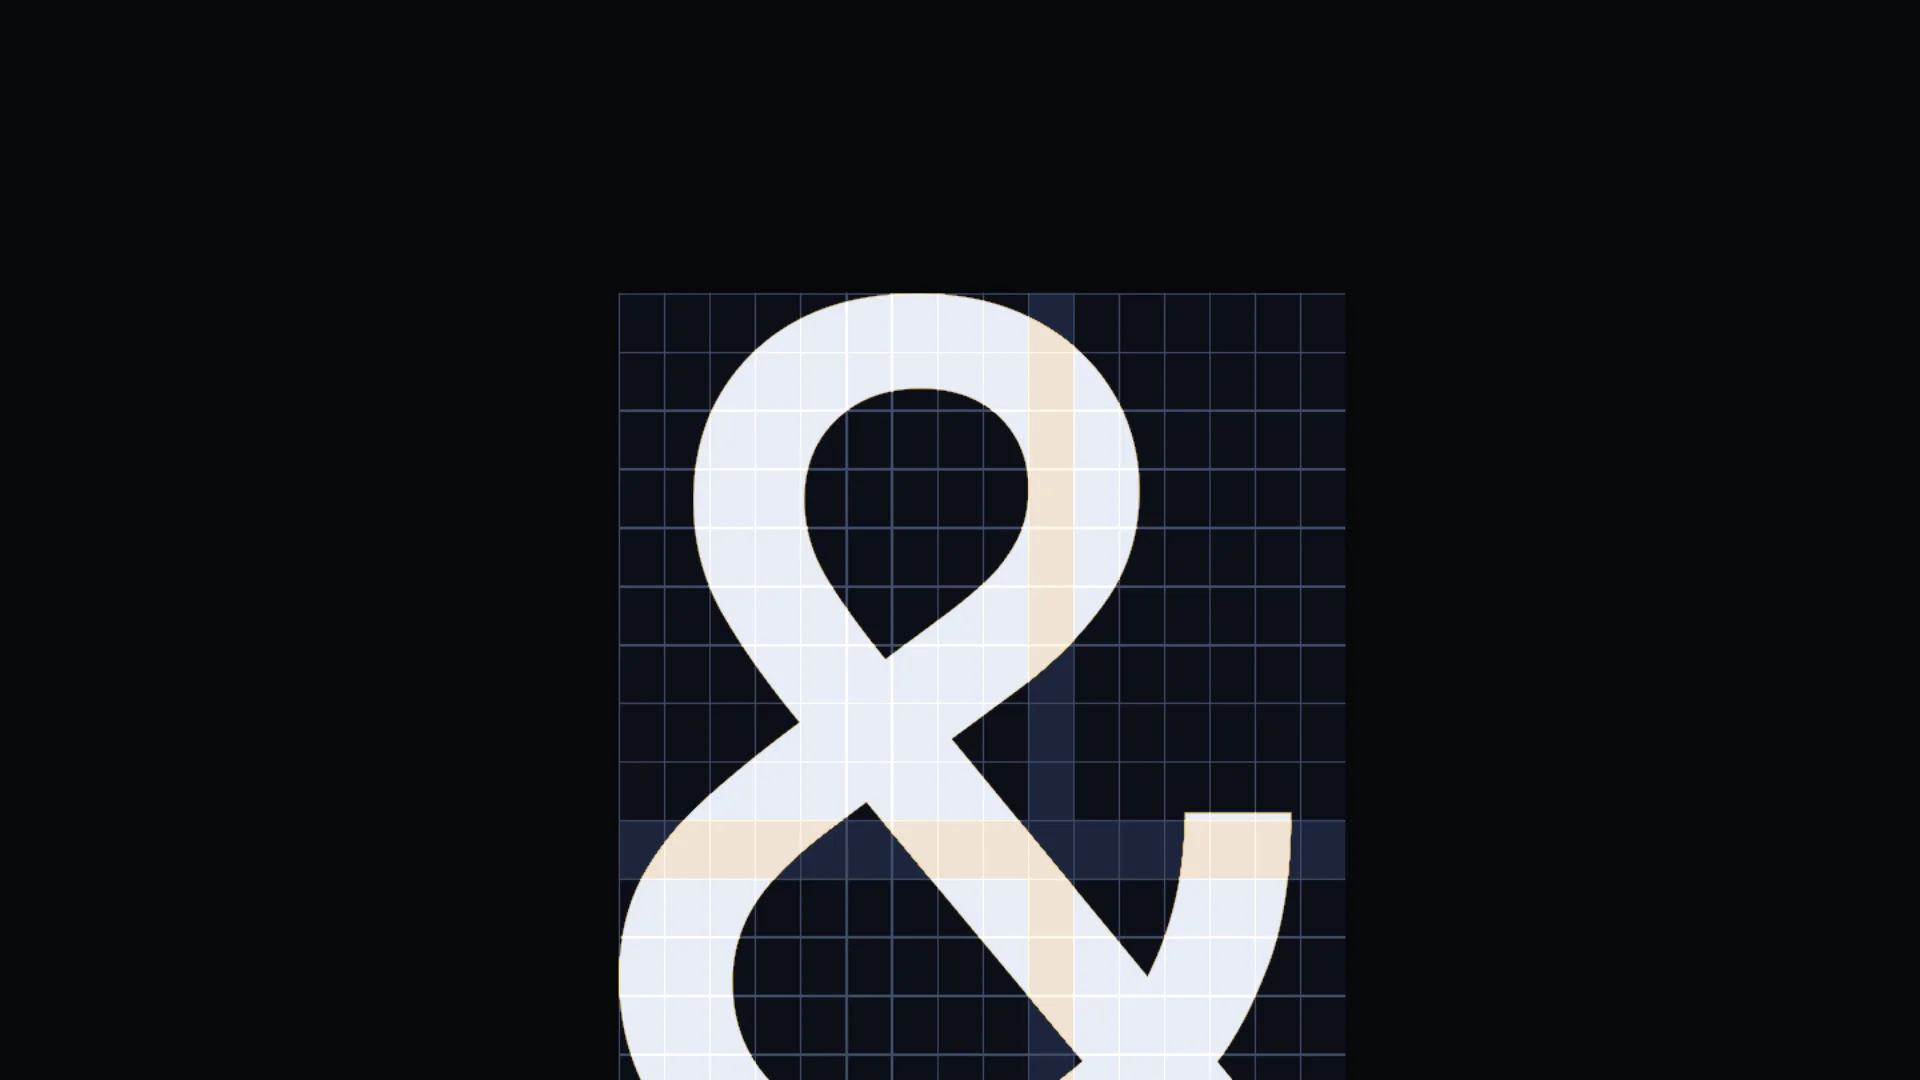
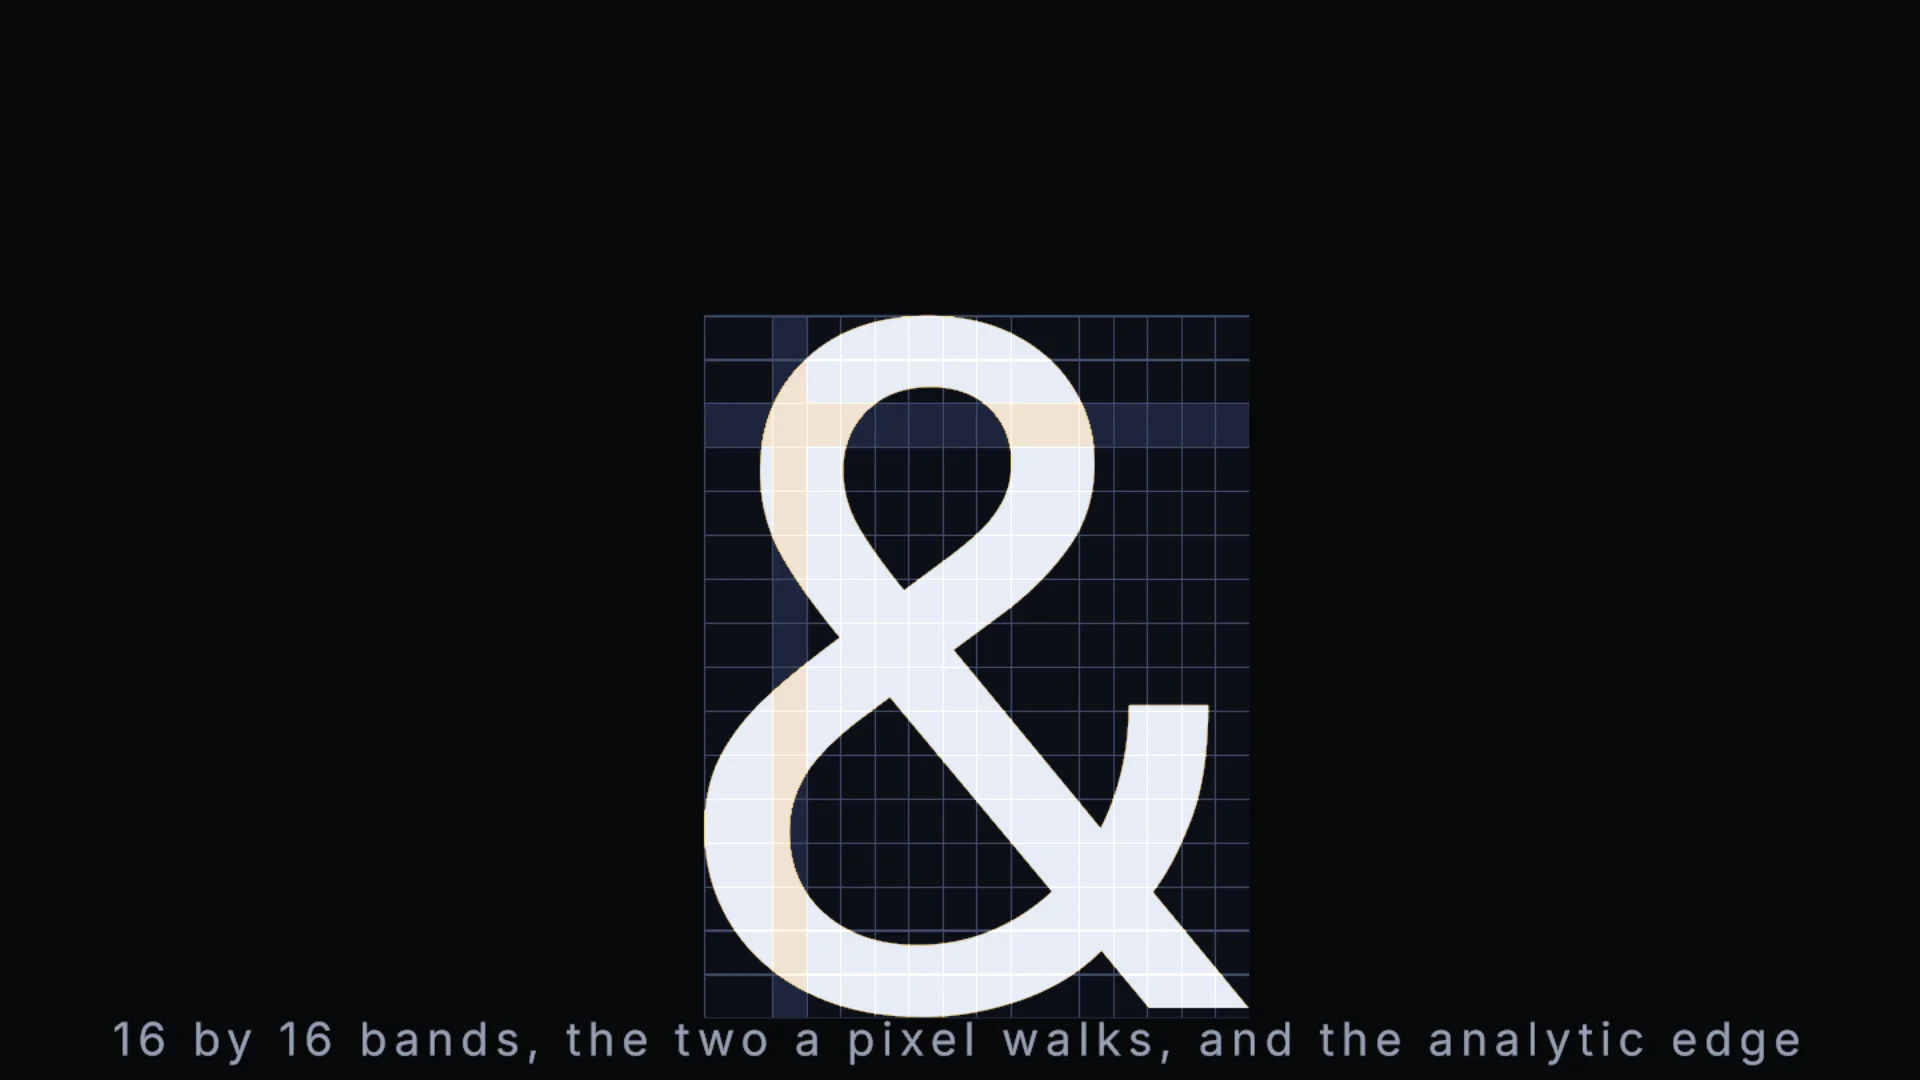
docs(site): fit the Slug anatomy glyph to a 16:9 frame

Changed region(s): [[0.0625, 0.2444, 0.9375, 1.0]]

diff --git a/site/examples/src/scenes/slug-anatomy/scene.tsx b/site/examples/src/scenes/slug-anatomy/scene.tsx
@@ -29,7 +29,7 @@ export default function SlugAnatomy() {
         style={{ fontSize: FONT_SIZE, color: '#e7ecf6' }}
         layout={{ align: 'center', wrap: 'none' }}
         constraints={{ width: { mode: 'exact', size: 8 } }}
-        position={[-4, 3.1, 0]}
+        position={[-4, 2.55, 0]}
       >
         {GLYPH}
       </Text>
@@ -38,7 +38,7 @@ export default function SlugAnatomy() {
         style={{ fontSize: 0.26, color: CAPTION, letterSpacing: 0.04 }}
         layout={{ align: 'center', wrap: 'none' }}
         constraints={{ width: { mode: 'exact', size: 10 } }}
-        position={[-5, -3.05, 0]}
+        position={[-5, -2.7, 0]}
       >
         16 by 16 bands, the two a pixel walks, and the analytic edge
       </Text>

diff --git a/site/examples/src/scenes/slug-anatomy/three.ts b/site/examples/src/scenes/slug-anatomy/three.ts
@@ -22,7 +22,7 @@ export async function mount(scene: Scene): Promise<() => void> {
     layout: { align: 'center', wrap: 'none' },
     constraints: { width: { mode: 'exact', size: 8 } },
   });
-  letter.position.set(-4, 3.1, 0);
+  letter.position.set(-4, 2.55, 0);
   scene.add(letter);
   glyph.shape();
 

diff --git a/site/examples/src/scenes/slug-anatomy/config.ts b/site/examples/src/scenes/slug-anatomy/config.ts
@@ -1,6 +1,6 @@
 /** The glyph under the microscope; an ampersand is all curves. */
 export const GLYPH = '&';
-export const FONT_SIZE = 7.2;
+export const FONT_SIZE = 5.4;
 /** Slug divides a glyph into this many bands each way. */
 export const BANDS = 16;
 /** Seconds per band as the highlight sweeps. */
